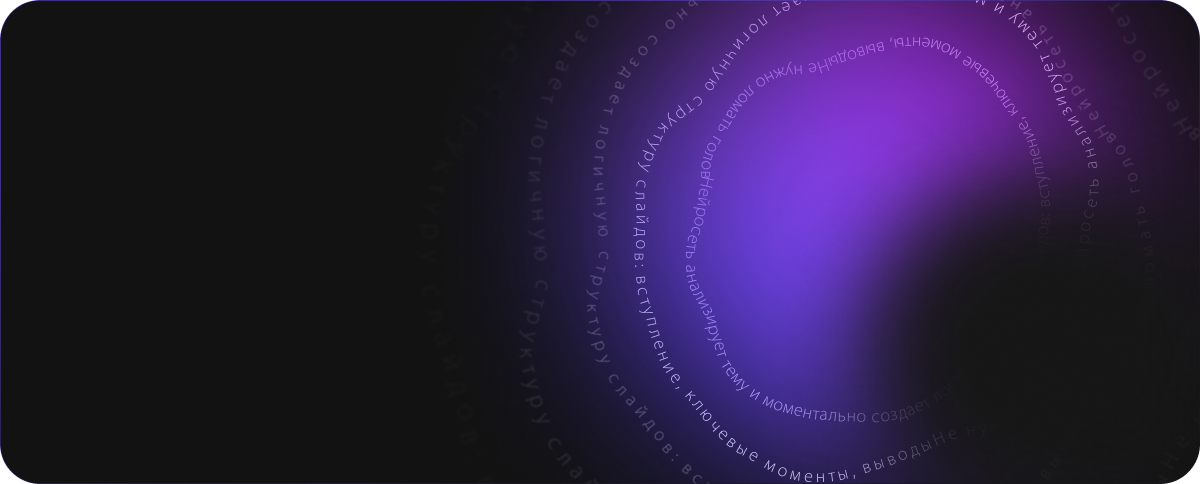
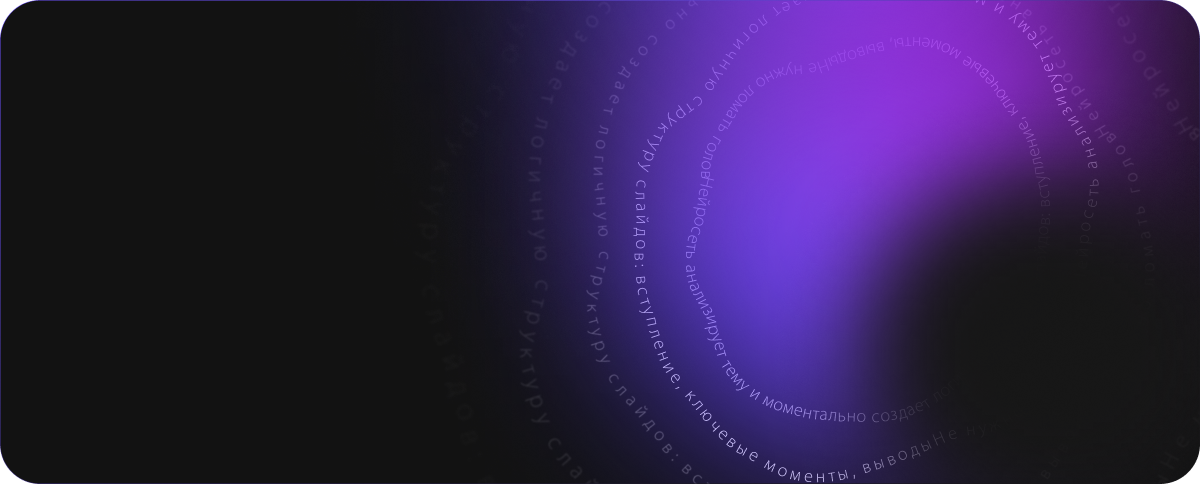
new

Changed region(s): [[0.37, 0.0, 1.0, 0.3409]]

diff --git a/assets/css/synonymizer.css b/assets/css/synonymizer.css
@@ -18,13 +18,20 @@
 
 .synonymizer-hero-animation {
     position: absolute;
-    top: 220px;
-    left: 50px;
     width: 380px;
     height: 380px;
-
+    top: 10%;
+    left: 10%;
+    transform: translate(-10%, 10%);
 }
-
+.possibilities-asset-animation{
+    position: absolute;
+    width: 380px;
+    height: 380px;
+    top: 0;
+    transform: translate(-10%, 10%);
+    right: 10%;
+}
 
 .img-animation  {
     position: absolute;
@@ -44,7 +51,7 @@
 }
 .img-animation--tree {
     animation: rotate 48s linear infinite, fade-in-out 12s linear infinite;
-    animation-delay: 1s; /* Задержка для синхронизации */
+    animation-delay: 1s;
 }
 
 @keyframes rotate {
@@ -61,7 +68,7 @@
         opacity: 1;
     }
     50%, 90% {
-        opacity: 0.1; /* Немного тускнеет */
+        opacity: 0.1;
     }
     100% {
         opacity: 1;
@@ -70,7 +77,7 @@
 
 @keyframes fade-in-out {
     0%, 40% {
-        opacity: 0.3; /* Немного тускнеет */
+        opacity: 0.3;
     }
     50%, 90% {
         opacity: 1;
@@ -82,13 +89,13 @@
 
 @keyframes fade-in-out-smooth {
     0%, 30% {
-        opacity: 0; /* Полностью исчезает */
+        opacity: 0;
     }
     40%, 70% {
-        opacity: 1; /* Полностью появляется */
+        opacity: 1;
     }
     80%, 100% {
-        opacity: 0; /* Плавно исчезает */
+        opacity: 0;
     }
 }
 .synonymizer-service-item {
@@ -231,6 +238,7 @@
     position: absolute;
     left: 0;
     top: 300px;
+
 }
 .synonymizer-cnt-title{
     text-align: center;
@@ -266,8 +274,17 @@
     position: relative;
     gap: 35px;
 }
+.synonymizer-mobile-animation{
+    display: none;
+}
 
-@media (max-width: 1400px) {
+@media (max-width: 1490px) {
+    .synonymizer-hero-animation {
+        top: 10%;
+        left: 10%;
+        transform: translate(-30%, 20%);
+    }
+
 }
 
 @media (max-width: 1200px) {
@@ -283,6 +300,14 @@
     }
     .synonymizer-possibilities-blur{
         display: none;
+    }
+    .synonymizer-mobile-animation{
+        display: block;
+        top: 30%;
+        left: 50%;
+        width: 200px;
+        height: 200px;
+        transform: translate(-50%, -10%);
     }
 
     .synonymizer-hero-section::before {

diff --git a/presentation.html b/presentation.html
@@ -429,8 +429,11 @@
                                     </button>
                                 </div>
                             </div>
-                            <div class="possibilities-assets">
-                                <img src="assets/images/asset.png" alt="">
+                            <div class="possibilities-asset-animation">
+                                <img  class="img-animation img-animation--one" src="assets/images/asset1.png" alt="">
+                                <img class="img-animation img-animation--two" src="assets/images/asset2.png" alt="">
+                                <img  class="img-animation img-animation--tree" src="assets/images/asset3.png" alt="">
+
                             </div>
 
 

diff --git a/synonymizer.html b/synonymizer.html
@@ -132,7 +132,6 @@
 
                 </div>
 
-
                 <div class="synonymizer-hero-parallax synonymizer-hero-parallax--one">
                     <img src="assets/images/synonymizerParallax.png" alt="">
                 </div>
@@ -145,6 +144,13 @@
                 </div>
             </div>
 
+
+            <div class="synonymizer-mobile-animation synonymizer-hero-animation">
+                <img  class="img-animation img-animation--one" src="assets/images/asset1.png" alt="">
+                <img class="img-animation img-animation--two" src="assets/images/asset2.png" alt="">
+                <img  class="img-animation img-animation--tree" src="assets/images/asset3.png" alt="">
+
+            </div>
 
         </section>
 

diff --git a/assets/js/gsap.js b/assets/js/gsap.js
@@ -109,3 +109,13 @@ gsap.to(".presentation-advantages-parallax", {
         scrub: true,
     },
 });
+
+gsap.to(".synonymizer-animation ", {
+    y: 250,
+    scrollTrigger: {
+        trigger: ".synonymizer-advantages-section",
+        start: "top 70%",
+        end: "bottom top",
+        scrub: true,
+    },
+});
